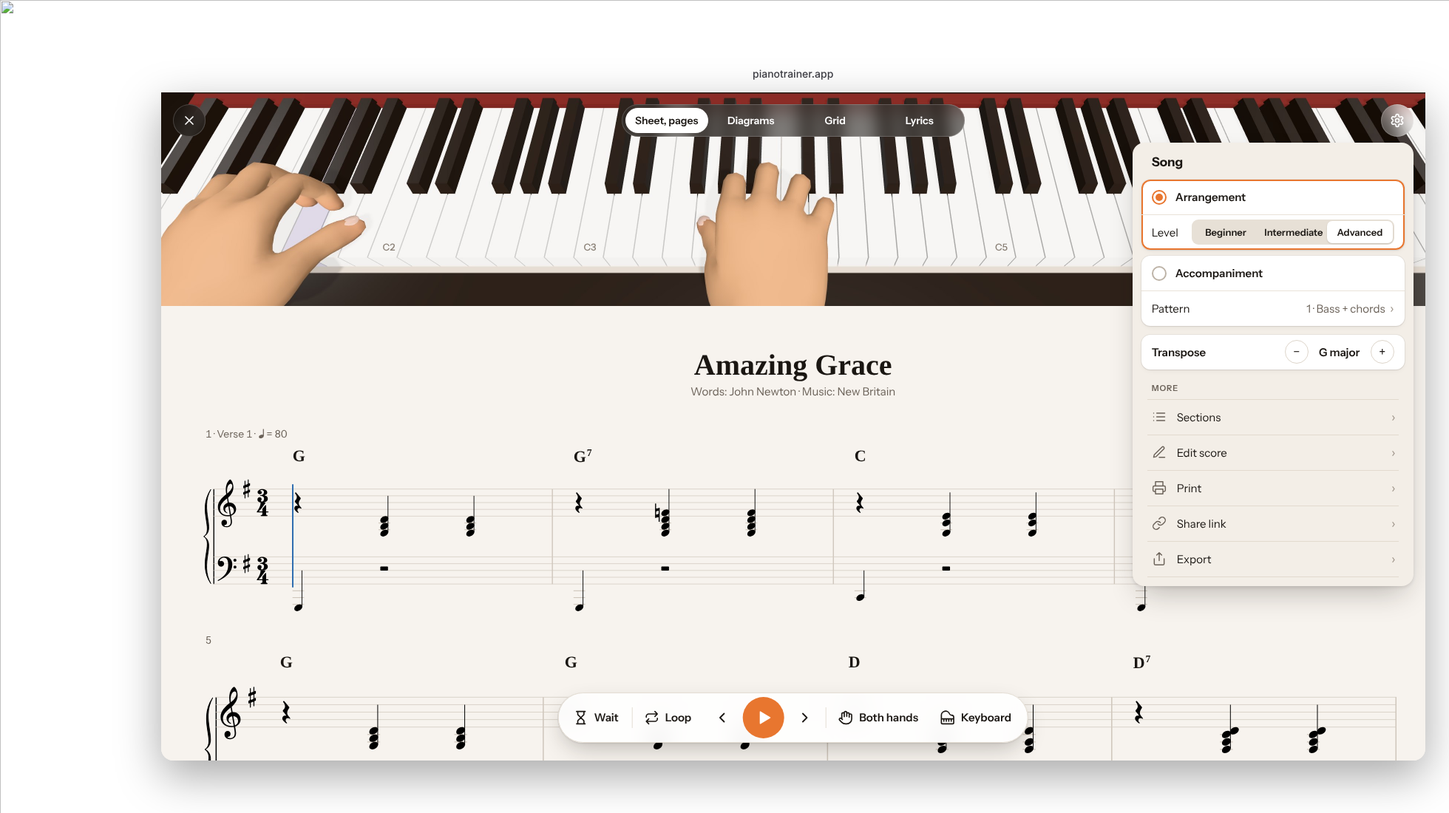
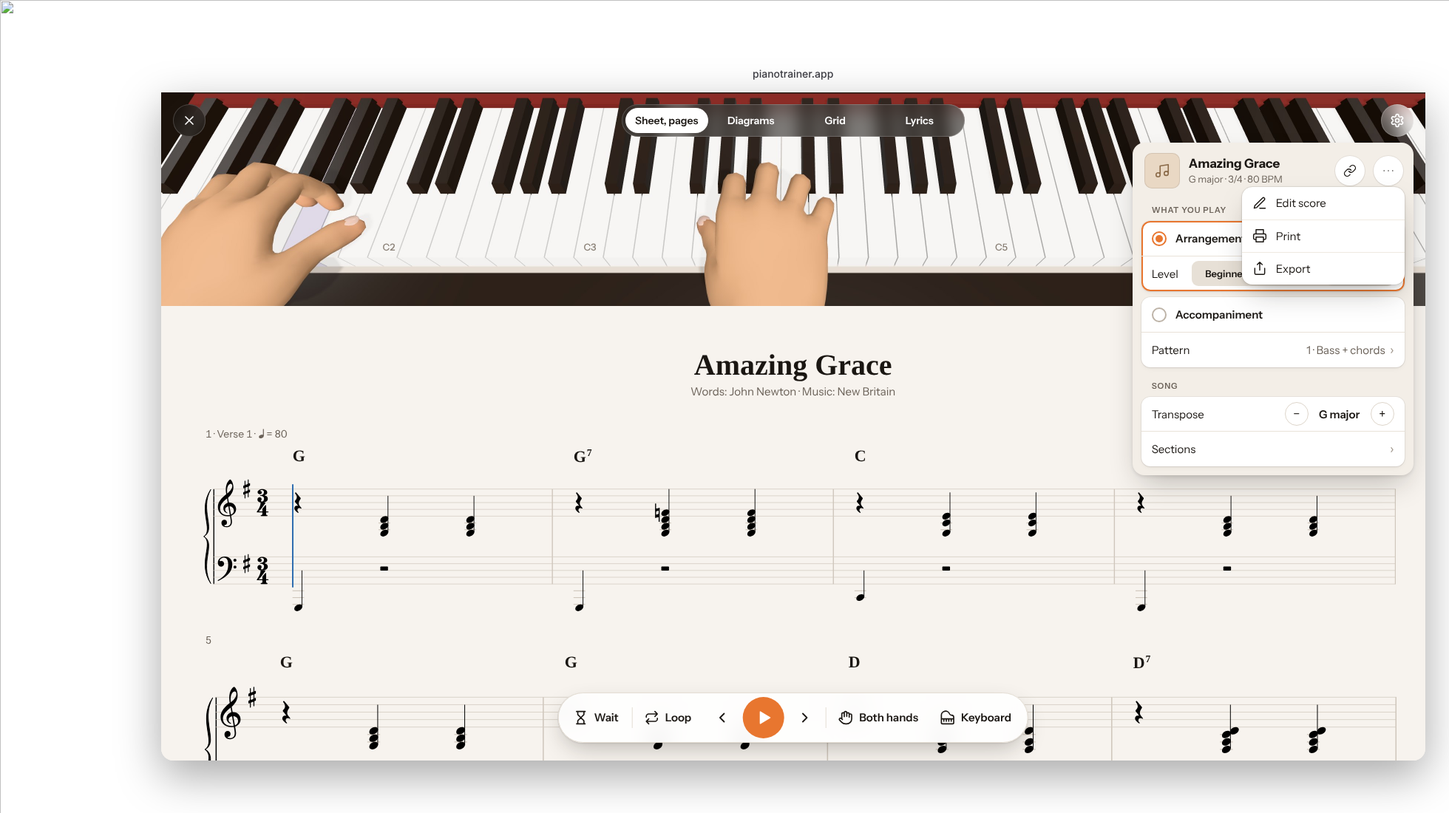
R37 canvas: the song's drawer, the song at its head with Share link and More, settings only below
Claude-Session: https://claude.ai/code/session_01BrtnH1Yf7S8aVU4w6rFSCU

diff --git a/.scratch/r37/canvas/panels.py b/.scratch/r37/canvas/panels.py
@@ -115,6 +115,22 @@ ACT_ROW = 'min-height: 48px; box-sizing: border-box; padding: 6px 4px 6px 6px; d
 ACTS = (caption('More') + '\n' + '<div role="group" aria-label="Song actions" style="flex: none; display: flex; flex-direction: column; margin: 0 8px; border-bottom: 1px solid #E2DACE">'
     + ''.join('<button type="button" style="%s"><svg width="20" height="20" viewBox="0 0 24 24" fill="none" stroke="#6B6259" stroke-width="1.75" stroke-linecap="round" stroke-linejoin="round" aria-hidden="true" style="flex: none"><path d="%s"></path></svg><span style="flex: 1">%s</span><span aria-hidden="true" style="color: #A39A90; font-size: 18px">›</span></button>' % (ACT_ROW, d, n) for n, d in ACT_ICONS)
     + '</div>')
+ICON = lambda d, s=20: '<svg width="%d" height="%d" viewBox="0 0 24 24" fill="none" stroke="currentColor" stroke-width="1.75" stroke-linecap="round" stroke-linejoin="round" aria-hidden="true" style="flex: none"><path d="%s"></path></svg>' % (s, s, d)
+ICBTN = 'flex: none; width: 40px; height: 40px; border: 0; border-radius: 9999px; background: #FFFFFF; color: #1A1612; display: flex; align-items: center; justify-content: center; box-shadow: 0 0 0 1px rgba(26,22,18,0.06), 0 1px 2px rgba(26,22,18,0.08)'
+MENU_ROW = 'min-height: 44px; box-sizing: border-box; padding: 0 14px; display: flex; align-items: center; gap: 12px; width: 100%; border: 0; border-top: 1px solid #EFE9E1; background: transparent; color: #1A1612; font-size: 15px; text-align: left'
+# the drawer's head is the song, as Chordify's and Apple Music's sheets are: its name and facts, and its two acts at the
+# right (Share link, and ··· for Edit score · Print · Export, a menu as Chordify's ⋮); settings only below, in groups
+SONGHEAD = ('<div style="flex: none; position: relative; display: flex; align-items: center; gap: 12px; padding: 2px 2px 4px 4px">'
+    '<span aria-hidden="true" style="flex: none; width: 48px; height: 48px; border-radius: 10px; background: #E9D8C4; box-shadow: inset 0 0 0 1px rgba(26,22,18,0.10); display: flex; align-items: center; justify-content: center; color: #8A6A48">' + ICON('M9 18V5l12-2v13M9 18a3 3 0 1 1-6 0 3 3 0 0 1 6 0ZM21 16a3 3 0 1 1-6 0 3 3 0 0 1 6 0Z', 22) + '</span>'
+    '<span style="flex: 1; min-width: 0; display: flex; flex-direction: column; gap: 2px"><span style="font-size: 17px; font-weight: 700; line-height: 1.2; white-space: nowrap; overflow: hidden; text-overflow: ellipsis">Amazing Grace</span><span style="font-size: 13px; color: #6B6259; white-space: nowrap; overflow: hidden; text-overflow: ellipsis">{{keyName}} · 3/4 · 80 BPM</span></span>'
+    '<button type="button" aria-label="Share link" style="' + ICBTN + '">' + ICON('M10 13a5 5 0 0 0 7.54.54l3-3a5 5 0 0 0-7.07-7.07l-1.72 1.71M14 11a5 5 0 0 0-7.54-.54l-3 3a5 5 0 0 0 7.07 7.07l1.71-1.71', 18) + '</button>'
+    '<button type="button" aria-label="More" aria-expanded="{{songActsOn}}" onClick="{{toggleSongActs}}" style="' + ICBTN + '">' + ICON('M5 12h.01M12 12h.01M19 12h.01', 20) + '</button>'
+    '<sc-if value="{{songActsShow}}" hint-placeholder-val="{{false}}"><div role="menu" style="position: absolute; z-index: 5; right: 0; top: 48px; width: 220px; border-radius: 14px; background: #FFFFFF; overflow: hidden; box-shadow: 0 0 0 1px rgba(26,22,18,0.08), 0 2px 4px rgba(26,22,18,0.10), 0 18px 40px -12px rgba(26,22,18,0.35)">'
+    + ''.join('<button type="button" role="menuitem" onClick="{{toggleSongActs}}" style="%s%s">%s<span>%s</span></button>' % (MENU_ROW, '; border-top: 0' if i == 0 else '', ICON(d), n) for i, (n, d) in enumerate([
+        ('Edit score', 'M12 20h9M16.5 3.5a2.1 2.1 0 0 1 3 3L7 19l-4 1 1-4Z'),
+        ('Print', 'M6 9V2h12v7M6 18H4a2 2 0 0 1-2-2v-5a2 2 0 0 1 2-2h16a2 2 0 0 1 2 2v5a2 2 0 0 1-2 2h-2M6 14h12v8H6z'),
+        ('Export', 'M4 12v8a2 2 0 0 0 2 2h12a2 2 0 0 0 2-2v-8M16 6l-4-4-4 4M12 2v13')]))
+    + '</div></sc-if></div>')
 def bodies(segw):
     # the view's own settings: its panel, and the head of the keys' one while the keys show
     VIEWSEC = (sif('isSheet', group(row('Layout', seg('layoutOpts', 2, segw['layout'])), CHIPS), 'true') + '\n'
@@ -148,10 +164,10 @@ def bodies(segw):
     'isView': ('{{viewName}} settings', title('{{viewName}}') + '\n' + VIEWSEC),
     # Settings: the song first (what you change for a piece), then the keyboard and only what its kind uses,
     # the actions last; no volume of its own (the device's, and each hand's in Hands)
-    'isMore': ('Settings', title('Song') + '\n'
+    'isMore': ('Settings', SONGHEAD + '\n' + caption('What you play') + '\n'
         + '<div role="radiogroup" aria-label="Score" style="display: flex; flex-direction: column; gap: 8px">' + CARD('arr', 'Arrangement', row('Level', seg('levelOpts', 3, 270))) + CARD('acc', 'Accompaniment', valrow('Pattern', '{{patternName}}', 'openPattern')) + '</div>\n'
-        + group(row('<span style="font-weight: 600">Transpose</span>', STEP)) + '\n'
-        + ACTS),
+        + caption('Song') + '\n'
+        + group(row('Transpose', STEP), link('Sections'))),
     # the keyboard: its own button at the transport's right end, Keys first, then only what that kind uses
     # the keyboard: which one, as pictures (Chordify's "Pick your view"), then only what changes that one
     'isKeys': ('Keyboard', title('Keyboard') + '\n' + TILES + '\n'
@@ -172,6 +188,7 @@ const PATTERN_ROLLS = [['Bass and chords', 'M2 6h11v3h-11zM2 11h11v3h-11zM2 16h1
 const PAT_SHELVES = [{"id": "five-ways", "title": "Called to Play · The five ways (lesson 3)"}, {"id": "techniques", "title": "Called to Play · Right-hand techniques"}, {"id": "octaves", "title": "Called to Play 2 · Octaves and chords (level 2)"}, {"id": "seven-types", "title": "Bobrova · The seven types of accompaniment"}, {"id": "gorshkov", "title": "Gorshkov · Arranging the accompaniment"}, {"id": "genres", "title": "Rhythm styles"}, {"id": "own", "title": "Mine"}];
 const PAT_LIB = [{"id": "M1", "shelf": "five-ways", "name": "1 · Bass + chords", "hands": "LH: Octave, whole note · RH: Chord on every beat", "level": 1, "rh": "M2 6h19.6v3h-19.6zM2 11h19.6v3h-19.6zM2 16h19.6v3h-19.6zM26 6h19.6v3h-19.6zM26 11h19.6v3h-19.6zM26 16h19.6v3h-19.6zM50 6h19.6v3h-19.6zM50 11h19.6v3h-19.6zM50 16h19.6v3h-19.6zM74 6h19.6v3h-19.6zM74 11h19.6v3h-19.6zM74 16h19.6v3h-19.6z", "lh": "M2 29h94v3h-94z", "notes": [[0, 0.9, 0, "r"], [0, 0.9, 1, "r"], [0, 0.9, 2, "r"], [1, 0.9, 0, "r"], [1, 0.9, 1, "r"], [1, 0.9, 2, "r"], [2, 0.9, 0, "r"], [2, 0.9, 1, "r"], [2, 0.9, 2, "r"], [3, 0.9, 0, "r"], [3, 0.9, 1, "r"], [3, 0.9, 2, "r"], [0, 4, 0, "l"]], "book": "ctp", "tex": "block", "feel": "straight"}, {"id": "M2", "shelf": "five-ways", "name": "2 · Broken chords", "hands": "LH: Octave, whole note · RH: Broken chord: upper notes, lowest", "level": 1, "rh": "M2 6h8.8v3h-8.8zM2 11h8.8v3h-8.8zM14 16h8.8v3h-8.8zM26 6h8.8v3h-8.8zM26 11h8.8v3h-8.8zM38 16h8.8v3h-8.8zM50 6h8.8v3h-8.8zM50 11h8.8v3h-8.8zM62 16h8.8v3h-8.8zM74 6h8.8v3h-8.8zM74 11h8.8v3h-8.8zM86 16h8.8v3h-8.8z", "lh": "M2 29h94v3h-94z", "notes": [[0.0, 0.45, 0, "r"], [0.0, 0.45, 1, "r"], [0.5, 0.45, 2, "r"], [1.0, 0.45, 0, "r"], [1.0, 0.45, 1, "r"], [1.5, 0.45, 2, "r"], [2.0, 0.45, 0, "r"], [2.0, 0.45, 1, "r"], [2.5, 0.45, 2, "r"], [3.0, 0.45, 0, "r"], [3.0, 0.45, 1, "r"], [3.5, 0.45, 2, "r"], [0, 4, 0, "l"]], "book": "ctp", "tex": "broken", "feel": "straight"}, {"id": "M4", "shelf": "five-ways", "name": "4 · Arpeggio 1–5–8 · 3–5–8–5–3", "hands": "LH: Arpeggio 1–5–8 (no 3rd) · RH: Arpeggio 3–5–8–5–3", "level": 1, "rh": "M2 16h19.6v3h-19.6zM26 11h19.6v3h-19.6zM50 6h19.6v3h-19.6zM74 11h19.6v3h-19.6z", "lh": "M2 39h8.8v3h-8.8zM14 34h8.8v3h-8.8zM26 29h8.8v3h-8.8zM38 34h8.8v3h-8.8zM50 39h8.8v3h-8.8zM62 34h8.8v3h-8.8zM74 29h8.8v3h-8.8zM86 34h8.8v3h-8.8z", "notes": [[0, 0.9, 2, "r"], [1, 0.9, 1, "r"], [2, 0.9, 0, "r"], [3, 0.9, 1, "r"], [0.0, 0.45, 2, "l"], [0.5, 0.45, 1, "l"], [1.0, 0.45, 0, "l"], [1.5, 0.45, 1, "l"], [2.0, 0.45, 2, "l"], [2.5, 0.45, 1, "l"], [3.0, 0.45, 0, "l"], [3.5, 0.45, 1, "l"]], "book": "ctp", "tex": "arp", "feel": "straight"}, {"id": "M5", "shelf": "five-ways", "name": "5 · Bass + chords (dotted bass)", "hands": "LH: Dotted octaves ♩. ♪ · RH: Chord on every beat", "level": 1, "rh": "M2 6h19.6v3h-19.6zM2 11h19.6v3h-19.6zM2 16h19.6v3h-19.6zM26 6h19.6v3h-19.6zM26 11h19.6v3h-19.6zM26 16h19.6v3h-19.6zM50 6h19.6v3h-19.6zM50 11h19.6v3h-19.6zM50 16h19.6v3h-19.6zM74 6h19.6v3h-19.6zM74 11h19.6v3h-19.6zM74 16h19.6v3h-19.6z", "lh": "M2 29h31.6v3h-31.6zM38 39h8.8v3h-8.8zM50 29h31.6v3h-31.6zM86 39h8.8v3h-8.8z", "notes": [[0, 0.9, 0, "r"], [0, 0.9, 1, "r"], [0, 0.9, 2, "r"], [1, 0.9, 0, "r"], [1, 0.9, 1, "r"], [1, 0.9, 2, "r"], [2, 0.9, 0, "r"], [2, 0.9, 1, "r"], [2, 0.9, 2, "r"], [3, 0.9, 0, "r"], [3, 0.9, 1, "r"], [3, 0.9, 2, "r"], [0, 1.4, 0, "l"], [1.5, 0.45, 2, "l"], [2, 1.4, 0, "l"], [3.5, 0.45, 2, "l"]], "book": "ctp", "tex": "block", "feel": "straight"}, {"id": "t1", "shelf": "techniques", "name": "♪♩ Chord, then octave jumps", "hands": "LH: Octave, whole note · RH: ♪♩ Chord, then octave jumps", "level": 1, "rh": "M2 6h8.8v3h-8.8zM2 11h8.8v3h-8.8zM14 16h8.8v3h-8.8zM26 6h8.8v3h-8.8zM26 11h8.8v3h-8.8zM38 16h8.8v3h-8.8zM50 6h8.8v3h-8.8zM50 11h8.8v3h-8.8zM62 16h8.8v3h-8.8zM74 6h8.8v3h-8.8zM74 11h8.8v3h-8.8zM86 16h8.8v3h-8.8z", "lh": "M2 29h94v3h-94z", "notes": [[0.0, 0.45, 0, "r"], [0.0, 0.45, 1, "r"], [0.5, 0.45, 2, "r"], [1.0, 0.45, 0, "r"], [1.0, 0.45, 1, "r"], [1.5, 0.45, 2, "r"], [2.0, 0.45, 0, "r"], [2.0, 0.45, 1, "r"], [2.5, 0.45, 2, "r"], [3.0, 0.45, 0, "r"], [3.0, 0.45, 1, "r"], [3.5, 0.45, 2, "r"], [0, 4, 0, "l"]], "book": "ctp", "tex": "line", "feel": "straight"}, {"id": "t2", "shelf": "techniques", "name": "♪♪♪♪ Arpeggio up two octaves", "hands": "LH: Octave, whole note · RH: ♪♪♪♪ Arpeggio up two octaves", "level": 1, "rh": "M2 16h8.8v3h-8.8zM14 6h8.8v3h-8.8zM26 11h8.8v3h-8.8zM38 6h8.8v3h-8.8zM50 16h8.8v3h-8.8zM62 6h8.8v3h-8.8zM74 11h8.8v3h-8.8zM86 6h8.8v3h-8.8z", "lh": "M2 29h94v3h-94z", "notes": [[0.0, 0.45, 2, "r"], [0.5, 0.45, 0, "r"], [1.0, 0.45, 1, "r"], [1.5, 0.45, 0, "r"], [2.0, 0.45, 2, "r"], [2.5, 0.45, 0, "r"], [3.0, 0.45, 1, "r"], [3.5, 0.45, 0, "r"], [0, 4, 0, "l"]], "book": "ctp", "tex": "arp", "feel": "straight"}, {"id": "t3", "shelf": "techniques", "name": "♬ Runs down to the root", "hands": "LH: Octave, whole note · RH: ♬ 2nd and 5th, then down 3–2–1", "level": 1, "rh": "M2 16h8.8v3h-8.8zM14 6h8.8v3h-8.8zM26 11h8.8v3h-8.8zM38 6h8.8v3h-8.8zM50 16h8.8v3h-8.8zM62 6h8.8v3h-8.8zM74 11h8.8v3h-8.8zM86 6h8.8v3h-8.8z", "lh": "M2 29h94v3h-94z", "notes": [[0.0, 0.45, 2, "r"], [0.5, 0.45, 0, "r"], [1.0, 0.45, 1, "r"], [1.5, 0.45, 0, "r"], [2.0, 0.45, 2, "r"], [2.5, 0.45, 0, "r"], [3.0, 0.45, 1, "r"], [3.5, 0.45, 0, "r"], [0, 4, 0, "l"]], "book": "ctp", "tex": "line", "feel": "straight"}, {"id": "t4", "shelf": "techniques", "name": "♫ Run up 1–2–3–5", "hands": "LH: Octave, whole note · RH: ♫ Up 1–2–3–5 over two octaves", "level": 1, "rh": "M2 16h8.8v3h-8.8zM14 6h8.8v3h-8.8zM26 11h8.8v3h-8.8zM38 6h8.8v3h-8.8zM50 16h8.8v3h-8.8zM62 6h8.8v3h-8.8zM74 11h8.8v3h-8.8zM86 6h8.8v3h-8.8z", "lh": "M2 29h94v3h-94z", "notes": [[0.0, 0.45, 2, "r"], [0.5, 0.45, 0, "r"], [1.0, 0.45, 1, "r"], [1.5, 0.45, 0, "r"], [2.0, 0.45, 2, "r"], [2.5, 0.45, 0, "r"], [3.0, 0.45, 1, "r"], [3.5, 0.45, 0, "r"], [0, 4, 0, "l"]], "book": "ctp", "tex": "line", "feel": "straight"}, {"id": "t5", "shelf": "techniques", "name": "♩.♪♩ Dotted chords", "hands": "LH: Wide arpeggio 1–5–8–10–12–10", "level": 1, "rh": "M2 6h19.6v3h-19.6zM2 11h19.6v3h-19.6zM2 16h19.6v3h-19.6zM26 6h19.6v3h-19.6zM26 11h19.6v3h-19.6zM26 16h19.6v3h-19.6zM50 6h19.6v3h-19.6zM50 11h19.6v3h-19.6zM50 16h19.6v3h-19.6zM74 6h19.6v3h-19.6zM74 11h19.6v3h-19.6zM74 16h19.6v3h-19.6z", "lh": "M2 29h31.6v3h-31.6zM38 39h8.8v3h-8.8zM50 29h31.6v3h-31.6zM86 39h8.8v3h-8.8z", "notes": [[0, 0.9, 0, "r"], [0, 0.9, 1, "r"], [0, 0.9, 2, "r"], [1, 0.9, 0, "r"], [1, 0.9, 1, "r"], [1, 0.9, 2, "r"], [2, 0.9, 0, "r"], [2, 0.9, 1, "r"], [2, 0.9, 2, "r"], [3, 0.9, 0, "r"], [3, 0.9, 1, "r"], [3, 0.9, 2, "r"], [0, 1.4, 0, "l"], [1.5, 0.45, 2, "l"], [2, 1.4, 0, "l"], [3.5, 0.45, 2, "l"]], "book": "ctp", "tex": "block", "feel": "straight"}, {"id": "c3", "shelf": "techniques", "name": "3 chords", "hands": "LH: Wide arpeggio 1–5–8–10–12–10 · RH: 3 chords an octave apart", "level": 1, "rh": "M2 6h19.6v3h-19.6zM2 11h19.6v3h-19.6zM2 16h19.6v3h-19.6zM26 6h19.6v3h-19.6zM26 11h19.6v3h-19.6zM26 16h19.6v3h-19.6zM50 6h19.6v3h-19.6zM50 11h19.6v3h-19.6zM50 16h19.6v3h-19.6zM74 6h19.6v3h-19.6zM74 11h19.6v3h-19.6zM74 16h19.6v3h-19.6z", "lh": "M2 29h94v3h-94z", "notes": [[0, 0.9, 0, "r"], [0, 0.9, 1, "r"], [0, 0.9, 2, "r"], [1, 0.9, 0, "r"], [1, 0.9, 1, "r"], [1, 0.9, 2, "r"], [2, 0.9, 0, "r"], [2, 0.9, 1, "r"], [2, 0.9, 2, "r"], [3, 0.9, 0, "r"], [3, 0.9, 1, "r"], [3, 0.9, 2, "r"], [0, 4, 0, "l"]], "book": "ctp", "tex": "block", "feel": "straight"}, {"id": "inv", "shelf": "techniques", "name": "Inversions: root, 1st, 2nd", "hands": "LH: Arpeggio 1–5–8–10, the 12th held · RH: Inversions: root, 1st, 2nd", "level": 1, "rh": "M2 6h19.6v3h-19.6zM2 11h19.6v3h-19.6zM2 16h19.6v3h-19.6zM26 6h19.6v3h-19.6zM26 11h19.6v3h-19.6zM26 16h19.6v3h-19.6zM50 6h19.6v3h-19.6zM50 11h19.6v3h-19.6zM50 16h19.6v3h-19.6zM74 6h19.6v3h-19.6zM74 11h19.6v3h-19.6zM74 16h19.6v3h-19.6z", "lh": "M2 29h94v3h-94z", "notes": [[0, 0.9, 0, "r"], [0, 0.9, 1, "r"], [0, 0.9, 2, "r"], [1, 0.9, 0, "r"], [1, 0.9, 1, "r"], [1, 0.9, 2, "r"], [2, 0.9, 0, "r"], [2, 0.9, 1, "r"], [2, 0.9, 2, "r"], [3, 0.9, 0, "r"], [3, 0.9, 1, "r"], [3, 0.9, 2, "r"], [0, 4, 0, "l"]], "book": "ctp", "tex": "block", "feel": "straight"}, {"id": "p51", "shelf": "techniques", "name": "5.1 · The ♭7 under the root", "hands": "LH: Dotted octaves ♩. ♪ · RH: 5.1 The ♭7 under the root", "level": 1, "rh": "M2 6h19.6v3h-19.6zM2 11h19.6v3h-19.6zM2 16h19.6v3h-19.6zM26 6h19.6v3h-19.6zM26 11h19.6v3h-19.6zM26 16h19.6v3h-19.6zM50 6h19.6v3h-19.6zM50 11h19.6v3h-19.6zM50 16h19.6v3h-19.6zM74 6h19.6v3h-19.6zM74 11h19.6v3h-19.6zM74 16h19.6v3h-19.6z", "lh": "M2 29h31.6v3h-31.6zM38 39h8.8v3h-8.8zM50 29h31.6v3h-31.6zM86 39h8.8v3h-8.8z", "notes": [[0, 0.9, 0, "r"], [0, 0.9, 1, "r"], [0, 0.9, 2, "r"], [1, 0.9, 0, "r"], [1, 0.9, 1, "r"], [1, 0.9, 2, "r"], [2, 0.9, 0, "r"], [2, 0.9, 1, "r"], [2, 0.9, 2, "r"], [3, 0.9, 0, "r"], [3, 0.9, 1, "r"], [3, 0.9, 2, "r"], [0, 1.4, 0, "l"], [1.5, 0.45, 2, "l"], [2, 1.4, 0, "l"], [3.5, 0.45, 2, "l"]], "book": "ctp", "tex": "block", "feel": "straight"}, {"id": "p52", "shelf": "techniques", "name": "5.2 · Falling line 1–7–♭7–6", "hands": "LH: Dotted octaves ♩. ♪ · RH: 5.2 Falling line 1–7–♭7–6", "level": 1, "rh": "M2 6h19.6v3h-19.6zM2 11h19.6v3h-19.6zM2 16h19.6v3h-19.6zM26 6h19.6v3h-19.6zM26 11h19.6v3h-19.6zM26 16h19.6v3h-19.6zM50 6h19.6v3h-19.6zM50 11h19.6v3h-19.6zM50 16h19.6v3h-19.6zM74 6h19.6v3h-19.6zM74 11h19.6v3h-19.6zM74 16h19.6v3h-19.6z", "lh": "M2 29h31.6v3h-31.6zM38 39h8.8v3h-8.8zM50 29h31.6v3h-31.6zM86 39h8.8v3h-8.8z", "notes": [[0, 0.9, 0, "r"], [0, 0.9, 1, "r"], [0, 0.9, 2, "r"], [1, 0.9, 0, "r"], [1, 0.9, 1, "r"], [1, 0.9, 2, "r"], [2, 0.9, 0, "r"], [2, 0.9, 1, "r"], [2, 0.9, 2, "r"], [3, 0.9, 0, "r"], [3, 0.9, 1, "r"], [3, 0.9, 2, "r"], [0, 1.4, 0, "l"], [1.5, 0.45, 2, "l"], [2, 1.4, 0, "l"], [3.5, 0.45, 2, "l"]], "book": "ctp", "tex": "line", "feel": "straight"}, {"id": "p53", "shelf": "techniques", "name": "5.3 · The 3rd moves 3–2–4–3", "hands": "LH: Dotted octaves ♩. ♪ · RH: 5.3 The 3rd moves 3–2–4–3", "level": 1, "rh": "M2 6h19.6v3h-19.6zM2 11h19.6v3h-19.6zM2 16h19.6v3h-19.6zM26 6h19.6v3h-19.6zM26 11h19.6v3h-19.6zM26 16h19.6v3h-19.6zM50 6h19.6v3h-19.6zM50 11h19.6v3h-19.6zM50 16h19.6v3h-19.6zM74 6h19.6v3h-19.6zM74 11h19.6v3h-19.6zM74 16h19.6v3h-19.6z", "lh": "M2 29h31.6v3h-31.6zM38 39h8.8v3h-8.8zM50 29h31.6v3h-31.6zM86 39h8.8v3h-8.8z", "notes": [[0, 0.9, 0, "r"], [0, 0.9, 1, "r"], [0, 0.9, 2, "r"], [1, 0.9, 0, "r"], [1, 0.9, 1, "r"], [1, 0.9, 2, "r"], [2, 0.9, 0, "r"], [2, 0.9, 1, "r"], [2, 0.9, 2, "r"], [3, 0.9, 0, "r"], [3, 0.9, 1, "r"], [3, 0.9, 2, "r"], [0, 1.4, 0, "l"], [1.5, 0.45, 2, "l"], [2, 1.4, 0, "l"], [3.5, 0.45, 2, "l"]], "book": "ctp", "tex": "line", "feel": "straight"}, {"id": "s6u", "shelf": "techniques", "name": "Rising sixths", "hands": "LH: 1–5–8–5 in quarters · RH: 6th↑ Rising sixths", "level": 1, "rh": "M2 16h19.6v3h-19.6zM26 11h19.6v3h-19.6zM50 6h19.6v3h-19.6zM74 11h19.6v3h-19.6z", "lh": "M2 39h8.8v3h-8.8zM14 34h8.8v3h-8.8zM26 29h8.8v3h-8.8zM38 34h8.8v3h-8.8zM50 39h8.8v3h-8.8zM62 34h8.8v3h-8.8zM74 29h8.8v3h-8.8zM86 34h8.8v3h-8.8z", "notes": [[0, 0.9, 2, "r"], [1, 0.9, 1, "r"], [2, 0.9, 0, "r"], [3, 0.9, 1, "r"], [0.0, 0.45, 2, "l"], [0.5, 0.45, 1, "l"], [1.0, 0.45, 0, "l"], [1.5, 0.45, 1, "l"], [2.0, 0.45, 2, "l"], [2.5, 0.45, 1, "l"], [3.0, 0.45, 0, "l"], [3.5, 0.45, 1, "l"]], "book": "ctp", "tex": "line", "feel": "straight"}, {"id": "s6d", "shelf": "techniques", "name": "Falling sixths", "hands": "LH: 1–5–8–5 in quarters · RH: 6th↓ Falling sixths", "level": 1, "rh": "M2 16h19.6v3h-19.6zM26 11h19.6v3h-19.6zM50 6h19.6v3h-19.6zM74 11h19.6v3h-19.6z", "lh": "M2 39h8.8v3h-8.8zM14 34h8.8v3h-8.8zM26 29h8.8v3h-8.8zM38 34h8.8v3h-8.8zM50 39h8.8v3h-8.8zM62 34h8.8v3h-8.8zM74 29h8.8v3h-8.8zM86 34h8.8v3h-8.8z", "notes": [[0, 0.9, 2, "r"], [1, 0.9, 1, "r"], [2, 0.9, 0, "r"], [3, 0.9, 1, "r"], [0.0, 0.45, 2, "l"], [0.5, 0.45, 1, "l"], [1.0, 0.45, 0, "l"], [1.5, 0.45, 1, "l"], [2.0, 0.45, 2, "l"], [2.5, 0.45, 1, "l"], [3.0, 0.45, 0, "l"], [3.5, 0.45, 1, "l"]], "book": "ctp", "tex": "line", "feel": "straight"}, {"id": "oct", "shelf": "octaves", "name": "Octaves", "hands": "LH: Octave, whole note · RH: Octaves 1–2–3–5, two octaves up", "level": 2, "rh": "M2 16h8.8v3h-8.8zM14 6h8.8v3h-8.8zM26 11h8.8v3h-8.8zM38 6h8.8v3h-8.8zM50 16h8.8v3h-8.8zM62 6h8.8v3h-8.8zM74 11h8.8v3h-8.8zM86 6h8.8v3h-8.8z", "lh": "M2 29h94v3h-94z", "notes": [[0.0, 0.45, 2, "r"], [0.5, 0.45, 0, "r"], [1.0, 0.45, 1, "r"], [1.5, 0.45, 0, "r"], [2.0, 0.45, 2, "r"], [2.5, 0.45, 0, "r"], [3.0, 0.45, 1, "r"], [3.5, 0.45, 0, "r"], [0, 4, 0, "l"]], "book": "ctp2", "tex": "line", "feel": "straight"}, {"id": "octs", "shelf": "octaves", "name": "Octaves (scale)", "hands": "LH: Octave, whole note · RH: Octaves up the scale", "level": 2, "rh": "M2 16h8.8v3h-8.8zM14 6h8.8v3h-8.8zM26 11h8.8v3h-8.8zM38 6h8.8v3h-8.8zM50 16h8.8v3h-8.8zM62 6h8.8v3h-8.8zM74 11h8.8v3h-8.8zM86 6h8.8v3h-8.8z", "lh": "M2 29h94v3h-94z", "notes": [[0.0, 0.45, 2, "r"], [0.5, 0.45, 0, "r"], [1.0, 0.45, 1, "r"], [1.5, 0.45, 0, "r"], [2.0, 0.45, 2, "r"], [2.5, 0.45, 0, "r"], [3.0, 0.45, 1, "r"], [3.5, 0.45, 0, "r"], [0, 4, 0, "l"]], "book": "ctp2", "tex": "line", "feel": "straight"}, {"id": "chd", "shelf": "octaves", "name": "Chords", "hands": "LH: Arpeggio 1–5–8–10, the 12th held", "level": 2, "rh": "M2 6h19.6v3h-19.6zM2 11h19.6v3h-19.6zM2 16h19.6v3h-19.6zM26 6h19.6v3h-19.6zM26 11h19.6v3h-19.6zM26 16h19.6v3h-19.6zM50 6h19.6v3h-19.6zM50 11h19.6v3h-19.6zM50 16h19.6v3h-19.6zM74 6h19.6v3h-19.6zM74 11h19.6v3h-19.6zM74 16h19.6v3h-19.6z", "lh": "M2 29h94v3h-94z", "notes": [[0, 0.9, 0, "r"], [0, 0.9, 1, "r"], [0, 0.9, 2, "r"], [1, 0.9, 0, "r"], [1, 0.9, 1, "r"], [1, 0.9, 2, "r"], [2, 0.9, 0, "r"], [2, 0.9, 1, "r"], [2, 0.9, 2, "r"], [3, 0.9, 0, "r"], [3, 0.9, 1, "r"], [3, 0.9, 2, "r"], [0, 4, 0, "l"]], "book": "ctp2", "tex": "block", "feel": "straight"}, {"id": "r1", "shelf": "seven-types", "name": "1 · Harmonic basis", "hands": "LH: Octave on beats 1 and 3 · RH: Held chords (half notes)", "level": 2, "rh": "M2 6h19.6v3h-19.6zM2 11h19.6v3h-19.6zM2 16h19.6v3h-19.6zM26 6h19.6v3h-19.6zM26 11h19.6v3h-19.6zM26 16h19.6v3h-19.6zM50 6h19.6v3h-19.6zM50 11h19.6v3h-19.6zM50 16h19.6v3h-19.6zM74 6h19.6v3h-19.6zM74 11h19.6v3h-19.6zM74 16h19.6v3h-19.6z", "lh": "M2 29h94v3h-94z", "notes": [[0, 0.9, 0, "r"], [0, 0.9, 1, "r"], [0, 0.9, 2, "r"], [1, 0.9, 0, "r"], [1, 0.9, 1, "r"], [1, 0.9, 2, "r"], [2, 0.9, 0, "r"], [2, 0.9, 1, "r"], [2, 0.9, 2, "r"], [3, 0.9, 0, "r"], [3, 0.9, 1, "r"], [3, 0.9, 2, "r"], [0, 4, 0, "l"]], "book": "bob", "tex": "block", "feel": "straight"}, {"id": "r2", "shelf": "seven-types", "name": "2 · Bass–chord alternation", "hands": "RH: Chord on the off-beats", "level": 2, "rh": "M26 6h19.6v3h-19.6zM26 11h19.6v3h-19.6zM26 16h19.6v3h-19.6zM74 6h19.6v3h-19.6zM74 11h19.6v3h-19.6zM74 16h19.6v3h-19.6z", "lh": "M2 39h19.6v3h-19.6zM50 29h19.6v3h-19.6z", "notes": [[1, 0.9, 0, "r"], [1, 0.9, 1, "r"], [1, 0.9, 2, "r"], [3, 0.9, 0, "r"], [3, 0.9, 1, "r"], [3, 0.9, 2, "r"], [0, 0.9, 2, "l"], [2, 0.9, 0, "l"]], "book": "bob", "tex": "block", "feel": "straight"}, {"id": "r3", "shelf": "seven-types", "name": "3 · Chord pulse", "hands": "RH: Pulsing chords (8ths)", "level": 2, "rh": "M14 6h7.6v3h-7.6zM14 11h7.6v3h-7.6zM14 16h7.6v3h-7.6zM38 6h7.6v3h-7.6zM38 11h7.6v3h-7.6zM38 16h7.6v3h-7.6zM62 6h7.6v3h-7.6zM62 11h7.6v3h-7.6zM62 16h7.6v3h-7.6zM86 6h7.6v3h-7.6zM86 11h7.6v3h-7.6zM86 16h7.6v3h-7.6z", "lh": "M2 29h19.6v3h-19.6zM26 29h19.6v3h-19.6zM50 29h19.6v3h-19.6zM74 29h19.6v3h-19.6z", "notes": [[0.5, 0.4, 0, "r"], [0.5, 0.4, 1, "r"], [0.5, 0.4, 2, "r"], [1.5, 0.4, 0, "r"], [1.5, 0.4, 1, "r"], [1.5, 0.4, 2, "r"], [2.5, 0.4, 0, "r"], [2.5, 0.4, 1, "r"], [2.5, 0.4, 2, "r"], [3.5, 0.4, 0, "r"], [3.5, 0.4, 1, "r"], [3.5, 0.4, 2, "r"], [0, 0.9, 0, "l"], [1, 0.9, 0, "l"], [2, 0.9, 0, "l"], [3, 0.9, 0, "l"]], "book": "bob", "tex": "block", "feel": "straight"}, {"id": "r4", "shelf": "seven-types", "name": "4 · Harmonic figuration", "hands": "LH: Arpeggio 1–5–8 (no 3rd) · RH: Figuration 1–3–2–4–3", "level": 2, "rh": "M2 16h8.8v3h-8.8zM14 6h8.8v3h-8.8zM26 11h8.8v3h-8.8zM38 6h8.8v3h-8.8zM50 16h8.8v3h-8.8zM62 6h8.8v3h-8.8zM74 11h8.8v3h-8.8zM86 6h8.8v3h-8.8z", "lh": "M2 29h94v3h-94z", "notes": [[0.0, 0.45, 2, "r"], [0.5, 0.45, 0, "r"], [1.0, 0.45, 1, "r"], [1.5, 0.45, 0, "r"], [2.0, 0.45, 2, "r"], [2.5, 0.45, 0, "r"], [3.0, 0.45, 1, "r"], [3.5, 0.45, 0, "r"], [0, 4, 0, "l"]], "book": "bob", "tex": "arp", "feel": "straight"}, {"id": "r4b", "shelf": "seven-types", "name": "4b · Broken arpeggios", "hands": "RH: Broken arpeggio 1–3–2–3", "level": 2, "rh": "M2 6h8.8v3h-8.8zM2 11h8.8v3h-8.8zM14 16h8.8v3h-8.8zM26 6h8.8v3h-8.8zM26 11h8.8v3h-8.8zM38 16h8.8v3h-8.8zM50 6h8.8v3h-8.8zM50 11h8.8v3h-8.8zM62 16h8.8v3h-8.8zM74 6h8.8v3h-8.8zM74 11h8.8v3h-8.8zM86 16h8.8v3h-8.8z", "lh": "M2 29h94v3h-94z", "notes": [[0.0, 0.45, 0, "r"], [0.0, 0.45, 1, "r"], [0.5, 0.45, 2, "r"], [1.0, 0.45, 0, "r"], [1.0, 0.45, 1, "r"], [1.5, 0.45, 2, "r"], [2.0, 0.45, 0, "r"], [2.0, 0.45, 1, "r"], [2.5, 0.45, 2, "r"], [3.0, 0.45, 0, "r"], [3.0, 0.45, 1, "r"], [3.5, 0.45, 2, "r"], [0, 4, 0, "l"]], "book": "bob", "tex": "arp", "feel": "straight"}, {"id": "r5", "shelf": "seven-types", "name": "5 · Melody doubling", "hands": "LH: Broken chord 1–5–10–5 · RH: Melody (doubling the tune)", "level": 2, "rh": "M2 16h8.8v3h-8.8zM14 6h8.8v3h-8.8zM26 11h8.8v3h-8.8zM38 6h8.8v3h-8.8zM50 16h8.8v3h-8.8zM62 6h8.8v3h-8.8zM74 11h8.8v3h-8.8zM86 6h8.8v3h-8.8z", "lh": "M2 29h94v3h-94z", "notes": [[0.0, 0.45, 2, "r"], [0.5, 0.45, 0, "r"], [1.0, 0.45, 1, "r"], [1.5, 0.45, 0, "r"], [2.0, 0.45, 2, "r"], [2.5, 0.45, 0, "r"], [3.0, 0.45, 1, "r"], [3.5, 0.45, 0, "r"], [0, 4, 0, "l"]], "book": "bob", "tex": "melody", "feel": "straight"}, {"id": "r6", "shelf": "seven-types", "name": "6 · Elements of the melody", "hands": "LH: Arpeggio 1–5–8 (no 3rd) · RH: Melody at phrase starts and ends", "level": 2, "rh": "M2 16h8.8v3h-8.8zM14 6h8.8v3h-8.8zM26 11h8.8v3h-8.8zM38 6h8.8v3h-8.8zM50 16h8.8v3h-8.8zM62 6h8.8v3h-8.8zM74 11h8.8v3h-8.8zM86 6h8.8v3h-8.8z", "lh": "M2 29h94v3h-94z", "notes": [[0.0, 0.45, 2, "r"], [0.5, 0.45, 0, "r"], [1.0, 0.45, 1, "r"], [1.5, 0.45, 0, "r"], [2.0, 0.45, 2, "r"], [2.5, 0.45, 0, "r"], [3.0, 0.45, 1, "r"], [3.5, 0.45, 0, "r"], [0, 4, 0, "l"]], "book": "bob", "tex": "melody", "feel": "straight"}, {"id": "r7", "shelf": "seven-types", "name": "7 · Harmony in the melody", "hands": "LH: 1–5–8–5 in quarters · RH: Melody with chord notes under it", "level": 2, "rh": "M2 6h19.6v3h-19.6zM2 11h19.6v3h-19.6zM2 16h19.6v3h-19.6zM26 6h19.6v3h-19.6zM26 11h19.6v3h-19.6zM26 16h19.6v3h-19.6zM50 6h19.6v3h-19.6zM50 11h19.6v3h-19.6zM50 16h19.6v3h-19.6zM74 6h19.6v3h-19.6zM74 11h19.6v3h-19.6zM74 16h19.6v3h-19.6z", "lh": "M2 29h94v3h-94z", "notes": [[0, 0.9, 0, "r"], [0, 0.9, 1, "r"], [0, 0.9, 2, "r"], [1, 0.9, 0, "r"], [1, 0.9, 1, "r"], [1, 0.9, 2, "r"], [2, 0.9, 0, "r"], [2, 0.9, 1, "r"], [2, 0.9, 2, "r"], [3, 0.9, 0, "r"], [3, 0.9, 1, "r"], [3, 0.9, 2, "r"], [0, 4, 0, "l"]], "book": "bob", "tex": "melody", "feel": "straight"}, {"id": "g1", "shelf": "gorshkov", "name": "1 · Chord pulse", "hands": "LH: Root, whole note · RH: Chord pulse, beats 1 and 4 brighter", "level": 3, "rh": "M14 6h7.6v3h-7.6zM14 11h7.6v3h-7.6zM14 16h7.6v3h-7.6zM38 6h7.6v3h-7.6zM38 11h7.6v3h-7.6zM38 16h7.6v3h-7.6zM62 6h7.6v3h-7.6zM62 11h7.6v3h-7.6zM62 16h7.6v3h-7.6zM86 6h7.6v3h-7.6zM86 11h7.6v3h-7.6zM86 16h7.6v3h-7.6z", "lh": "M2 29h19.6v3h-19.6zM26 29h19.6v3h-19.6zM50 29h19.6v3h-19.6zM74 29h19.6v3h-19.6z", "notes": [[0.5, 0.4, 0, "r"], [0.5, 0.4, 1, "r"], [0.5, 0.4, 2, "r"], [1.5, 0.4, 0, "r"], [1.5, 0.4, 1, "r"], [1.5, 0.4, 2, "r"], [2.5, 0.4, 0, "r"], [2.5, 0.4, 1, "r"], [2.5, 0.4, 2, "r"], [3.5, 0.4, 0, "r"], [3.5, 0.4, 1, "r"], [3.5, 0.4, 2, "r"], [0, 0.9, 0, "l"], [1, 0.9, 0, "l"], [2, 0.9, 0, "l"], [3, 0.9, 0, "l"]], "book": "gor", "tex": "block", "feel": "straight"}, {"id": "g2", "shelf": "gorshkov", "name": "2 · Pulse with the 2nd", "hands": "LH: Root, whole note · RH: Pulse with the 2nd added", "level": 3, "rh": "M14 6h7.6v3h-7.6zM14 11h7.6v3h-7.6zM14 16h7.6v3h-7.6zM38 6h7.6v3h-7.6zM38 11h7.6v3h-7.6zM38 16h7.6v3h-7.6zM62 6h7.6v3h-7.6zM62 11h7.6v3h-7.6zM62 16h7.6v3h-7.6zM86 6h7.6v3h-7.6zM86 11h7.6v3h-7.6zM86 16h7.6v3h-7.6z", "lh": "M2 29h19.6v3h-19.6zM26 29h19.6v3h-19.6zM50 29h19.6v3h-19.6zM74 29h19.6v3h-19.6z", "notes": [[0.5, 0.4, 0, "r"], [0.5, 0.4, 1, "r"], [0.5, 0.4, 2, "r"], [1.5, 0.4, 0, "r"], [1.5, 0.4, 1, "r"], [1.5, 0.4, 2, "r"], [2.5, 0.4, 0, "r"], [2.5, 0.4, 1, "r"], [2.5, 0.4, 2, "r"], [3.5, 0.4, 0, "r"], [3.5, 0.4, 1, "r"], [3.5, 0.4, 2, "r"], [0, 0.9, 0, "l"], [1, 0.9, 0, "l"], [2, 0.9, 0, "l"], [3, 0.9, 0, "l"]], "book": "gor", "tex": "block", "feel": "straight"}, {"id": "g3", "shelf": "gorshkov", "name": "3 · Broken in 8ths", "hands": "LH: Root, whole note", "level": 3, "rh": "M2 6h8.8v3h-8.8zM2 11h8.8v3h-8.8zM14 16h8.8v3h-8.8zM26 6h8.8v3h-8.8zM26 11h8.8v3h-8.8zM38 16h8.8v3h-8.8zM50 6h8.8v3h-8.8zM50 11h8.8v3h-8.8zM62 16h8.8v3h-8.8zM74 6h8.8v3h-8.8zM74 11h8.8v3h-8.8zM86 16h8.8v3h-8.8z", "lh": "M2 29h94v3h-94z", "notes": [[0.0, 0.45, 0, "r"], [0.0, 0.45, 1, "r"], [0.5, 0.45, 2, "r"], [1.0, 0.45, 0, "r"], [1.0, 0.45, 1, "r"], [1.5, 0.45, 2, "r"], [2.0, 0.45, 0, "r"], [2.0, 0.45, 1, "r"], [2.5, 0.45, 2, "r"], [3.0, 0.45, 0, "r"], [3.0, 0.45, 1, "r"], [3.5, 0.45, 2, "r"], [0, 4, 0, "l"]], "book": "gor", "tex": "broken", "feel": "straight"}, {"id": "g4", "shelf": "gorshkov", "name": "4 · Harmonic figuration", "hands": "LH: Root, whole note", "level": 3, "rh": "M2 16h8.8v3h-8.8zM14 6h8.8v3h-8.8zM26 11h8.8v3h-8.8zM38 6h8.8v3h-8.8zM50 16h8.8v3h-8.8zM62 6h8.8v3h-8.8zM74 11h8.8v3h-8.8zM86 6h8.8v3h-8.8z", "lh": "M2 29h94v3h-94z", "notes": [[0.0, 0.45, 2, "r"], [0.5, 0.45, 0, "r"], [1.0, 0.45, 1, "r"], [1.5, 0.45, 0, "r"], [2.0, 0.45, 2, "r"], [2.5, 0.45, 0, "r"], [3.0, 0.45, 1, "r"], [3.5, 0.45, 0, "r"], [0, 4, 0, "l"]], "book": "gor", "tex": "arp", "feel": "straight"}, {"id": "g5", "shelf": "gorshkov", "name": "5 · Pulse, then a run", "hands": "LH: Root, whole note · RH: Pulse on 1–3, a run down on 4", "level": 3, "rh": "M14 6h7.6v3h-7.6zM14 11h7.6v3h-7.6zM14 16h7.6v3h-7.6zM38 6h7.6v3h-7.6zM38 11h7.6v3h-7.6zM38 16h7.6v3h-7.6zM62 6h7.6v3h-7.6zM62 11h7.6v3h-7.6zM62 16h7.6v3h-7.6zM86 6h7.6v3h-7.6zM86 11h7.6v3h-7.6zM86 16h7.6v3h-7.6z", "lh": "M2 29h19.6v3h-19.6zM26 29h19.6v3h-19.6zM50 29h19.6v3h-19.6zM74 29h19.6v3h-19.6z", "notes": [[0.5, 0.4, 0, "r"], [0.5, 0.4, 1, "r"], [0.5, 0.4, 2, "r"], [1.5, 0.4, 0, "r"], [1.5, 0.4, 1, "r"], [1.5, 0.4, 2, "r"], [2.5, 0.4, 0, "r"], [2.5, 0.4, 1, "r"], [2.5, 0.4, 2, "r"], [3.5, 0.4, 0, "r"], [3.5, 0.4, 1, "r"], [3.5, 0.4, 2, "r"], [0, 0.9, 0, "l"], [1, 0.9, 0, "l"], [2, 0.9, 0, "l"], [3, 0.9, 0, "l"]], "book": "gor", "tex": "line", "feel": "straight"}, {"id": "g6", "shelf": "gorshkov", "name": "6 · A line on beats 3 and 4", "hands": "LH: Root, whole note", "level": 3, "rh": "M2 16h19.6v3h-19.6zM26 11h19.6v3h-19.6zM50 6h19.6v3h-19.6zM74 11h19.6v3h-19.6z", "lh": "M2 39h8.8v3h-8.8zM14 34h8.8v3h-8.8zM26 29h8.8v3h-8.8zM38 34h8.8v3h-8.8zM50 39h8.8v3h-8.8zM62 34h8.8v3h-8.8zM74 29h8.8v3h-8.8zM86 34h8.8v3h-8.8z", "notes": [[0, 0.9, 2, "r"], [1, 0.9, 1, "r"], [2, 0.9, 0, "r"], [3, 0.9, 1, "r"], [0.0, 0.45, 2, "l"], [0.5, 0.45, 1, "l"], [1.0, 0.45, 0, "l"], [1.5, 0.45, 1, "l"], [2.0, 0.45, 2, "l"], [2.5, 0.45, 1, "l"], [3.0, 0.45, 0, "l"], [3.5, 0.45, 1, "l"]], "book": "gor", "tex": "line", "feel": "straight"}, {"id": "block", "shelf": "genres", "name": "Whole notes", "hands": "LH: Root, whole note · RH: Whole-note chord", "level": 0, "rh": "M2 6h89.2v3h-89.2zM2 11h89.2v3h-89.2zM2 16h89.2v3h-89.2z", "lh": "M2 39h8.8v3h-8.8zM14 34h8.8v3h-8.8zM26 29h8.8v3h-8.8zM38 34h8.8v3h-8.8zM50 39h8.8v3h-8.8zM62 34h8.8v3h-8.8zM74 29h8.8v3h-8.8zM86 34h8.8v3h-8.8z", "notes": [[0, 3.8, 0, "r"], [0, 3.8, 1, "r"], [0, 3.8, 2, "r"], [0.0, 0.45, 2, "l"], [0.5, 0.45, 1, "l"], [1.0, 0.45, 0, "l"], [1.5, 0.45, 1, "l"], [2.0, 0.45, 2, "l"], [2.5, 0.45, 1, "l"], [3.0, 0.45, 0, "l"], [3.5, 0.45, 1, "l"]], "book": "styles", "tex": "block", "feel": "straight"}, {"id": "flow", "shelf": "genres", "name": "Chord flow (I–IV–I–V–I shapes)", "hands": "LH: Root, whole note · RH: Chord flow: I–IV–I–V–I shapes", "level": 0, "rh": "M2 6h19.6v3h-19.6zM2 11h19.6v3h-19.6zM2 16h19.6v3h-19.6zM26 6h19.6v3h-19.6zM26 11h19.6v3h-19.6zM26 16h19.6v3h-19.6zM50 6h19.6v3h-19.6zM50 11h19.6v3h-19.6zM50 16h19.6v3h-19.6zM74 6h19.6v3h-19.6zM74 11h19.6v3h-19.6zM74 16h19.6v3h-19.6z", "lh": "M2 29h94v3h-94z", "notes": [[0, 0.9, 0, "r"], [0, 0.9, 1, "r"], [0, 0.9, 2, "r"], [1, 0.9, 0, "r"], [1, 0.9, 1, "r"], [1, 0.9, 2, "r"], [2, 0.9, 0, "r"], [2, 0.9, 1, "r"], [2, 0.9, 2, "r"], [3, 0.9, 0, "r"], [3, 0.9, 1, "r"], [3, 0.9, 2, "r"], [0, 4, 0, "l"]], "book": "styles", "tex": "block", "feel": "straight"}, {"id": "pop8", "shelf": "genres", "name": "Pop 8ths", "hands": "LH: Root on beats 1 and 3 · RH: Pulsing chords (8ths)", "level": 0, "rh": "M2 6h7.6v3h-7.6zM2 11h7.6v3h-7.6zM2 16h7.6v3h-7.6zM14 6h7.6v3h-7.6zM14 11h7.6v3h-7.6zM14 16h7.6v3h-7.6zM26 6h7.6v3h-7.6zM26 11h7.6v3h-7.6zM26 16h7.6v3h-7.6zM38 6h7.6v3h-7.6zM38 11h7.6v3h-7.6zM38 16h7.6v3h-7.6zM50 6h7.6v3h-7.6zM50 11h7.6v3h-7.6zM50 16h7.6v3h-7.6zM62 6h7.6v3h-7.6zM62 11h7.6v3h-7.6zM62 16h7.6v3h-7.6zM74 6h7.6v3h-7.6zM74 11h7.6v3h-7.6zM74 16h7.6v3h-7.6zM86 6h7.6v3h-7.6zM86 11h7.6v3h-7.6zM86 16h7.6v3h-7.6z", "lh": "M2 29h43.6v3h-43.6zM50 34h43.6v3h-43.6z", "notes": [[0.0, 0.4, 0, "r"], [0.0, 0.4, 1, "r"], [0.0, 0.4, 2, "r"], [0.5, 0.4, 0, "r"], [0.5, 0.4, 1, "r"], [0.5, 0.4, 2, "r"], [1.0, 0.4, 0, "r"], [1.0, 0.4, 1, "r"], [1.0, 0.4, 2, "r"], [1.5, 0.4, 0, "r"], [1.5, 0.4, 1, "r"], [1.5, 0.4, 2, "r"], [2.0, 0.4, 0, "r"], [2.0, 0.4, 1, "r"], [2.0, 0.4, 2, "r"], [2.5, 0.4, 0, "r"], [2.5, 0.4, 1, "r"], [2.5, 0.4, 2, "r"], [3.0, 0.4, 0, "r"], [3.0, 0.4, 1, "r"], [3.0, 0.4, 2, "r"], [3.5, 0.4, 0, "r"], [3.5, 0.4, 1, "r"], [3.5, 0.4, 2, "r"], [0, 1.9, 0, "l"], [2, 1.9, 1, "l"]], "book": "styles", "tex": "block", "feel": "straight"}, {"id": "popSync", "shelf": "genres", "name": "Pop syncopated", "hands": "LH: Syncopated root · RH: Syncopated chords", "level": 0, "rh": "M2 6h31.6v3h-31.6zM2 11h31.6v3h-31.6zM2 16h31.6v3h-31.6zM38 6h8.8v3h-8.8zM38 11h8.8v3h-8.8zM38 16h8.8v3h-8.8zM50 6h43.6v3h-43.6zM50 11h43.6v3h-43.6zM50 16h43.6v3h-43.6z", "lh": "M2 29h43.6v3h-43.6zM50 39h43.6v3h-43.6z", "notes": [[0, 1.4, 0, "r"], [0, 1.4, 1, "r"], [0, 1.4, 2, "r"], [1.5, 0.45, 0, "r"], [1.5, 0.45, 1, "r"], [1.5, 0.45, 2, "r"], [2, 1.9, 0, "r"], [2, 1.9, 1, "r"], [2, 1.9, 2, "r"], [0, 1.9, 0, "l"], [2, 1.9, 2, "l"]], "book": "styles", "tex": "block", "feel": "straight"}, {"id": "ballad", "shelf": "genres", "name": "Ballad arpeggio", "hands": "LH: Root, then 5th · RH: Ballad arpeggio", "level": 0, "rh": "M2 6h89.2v3h-89.2zM2 11h89.2v3h-89.2zM2 16h89.2v3h-89.2z", "lh": "M2 39h8.8v3h-8.8zM14 34h8.8v3h-8.8zM26 29h8.8v3h-8.8zM38 34h8.8v3h-8.8zM50 39h8.8v3h-8.8zM62 34h8.8v3h-8.8zM74 29h8.8v3h-8.8zM86 34h8.8v3h-8.8z", "notes": [[0, 3.8, 0, "r"], [0, 3.8, 1, "r"], [0, 3.8, 2, "r"], [0.0, 0.45, 2, "l"], [0.5, 0.45, 1, "l"], [1.0, 0.45, 0, "l"], [1.5, 0.45, 1, "l"], [2.0, 0.45, 2, "l"], [2.5, 0.45, 1, "l"], [3.0, 0.45, 0, "l"], [3.5, 0.45, 1, "l"]], "book": "styles", "tex": "arp", "feel": "straight"}, {"id": "rock", "shelf": "genres", "name": "Rock", "hands": "LH: Driving octaves (8ths) · RH: Rock 8ths", "level": 0, "rh": "M2 6h7.6v3h-7.6zM2 11h7.6v3h-7.6zM2 16h7.6v3h-7.6zM14 6h7.6v3h-7.6zM14 11h7.6v3h-7.6zM14 16h7.6v3h-7.6zM26 6h7.6v3h-7.6zM26 11h7.6v3h-7.6zM26 16h7.6v3h-7.6zM38 6h7.6v3h-7.6zM38 11h7.6v3h-7.6zM38 16h7.6v3h-7.6zM50 6h7.6v3h-7.6zM50 11h7.6v3h-7.6zM50 16h7.6v3h-7.6zM62 6h7.6v3h-7.6zM62 11h7.6v3h-7.6zM62 16h7.6v3h-7.6zM74 6h7.6v3h-7.6zM74 11h7.6v3h-7.6zM74 16h7.6v3h-7.6zM86 6h7.6v3h-7.6zM86 11h7.6v3h-7.6zM86 16h7.6v3h-7.6z", "lh": "M2 29h7.6v3h-7.6zM14 29h7.6v3h-7.6zM26 29h7.6v3h-7.6zM38 29h7.6v3h-7.6zM50 29h7.6v3h-7.6zM62 29h7.6v3h-7.6zM74 29h7.6v3h-7.6zM86 29h7.6v3h-7.6z", "notes": [[0.0, 0.4, 0, "r"], [0.0, 0.4, 1, "r"], [0.0, 0.4, 2, "r"], [0.5, 0.4, 0, "r"], [0.5, 0.4, 1, "r"], [0.5, 0.4, 2, "r"], [1.0, 0.4, 0, "r"], [1.0, 0.4, 1, "r"], [1.0, 0.4, 2, "r"], [1.5, 0.4, 0, "r"], [1.5, 0.4, 1, "r"], [1.5, 0.4, 2, "r"], [2.0, 0.4, 0, "r"], [2.0, 0.4, 1, "r"], [2.0, 0.4, 2, "r"], [2.5, 0.4, 0, "r"], [2.5, 0.4, 1, "r"], [2.5, 0.4, 2, "r"], [3.0, 0.4, 0, "r"], [3.0, 0.4, 1, "r"], [3.0, 0.4, 2, "r"], [3.5, 0.4, 0, "r"], [3.5, 0.4, 1, "r"], [3.5, 0.4, 2, "r"], [0.0, 0.4, 0, "l"], [0.5, 0.4, 0, "l"], [1.0, 0.4, 0, "l"], [1.5, 0.4, 0, "l"], [2.0, 0.4, 0, "l"], [2.5, 0.4, 0, "l"], [3.0, 0.4, 0, "l"], [3.5, 0.4, 0, "l"]], "book": "styles", "tex": "block", "feel": "straight"}, {"id": "blues", "shelf": "genres", "name": "Blues shuffle", "hands": "LH: Shuffle 1–5–6–5 · RH: Blues shuffle stabs", "level": 0, "rh": "M2 6h5.2v3h-5.2zM2 11h5.2v3h-5.2zM2 16h5.2v3h-5.2zM18.1 6h5.2v3h-5.2zM18.1 11h5.2v3h-5.2zM18.1 16h5.2v3h-5.2zM26 6h5.2v3h-5.2zM26 11h5.2v3h-5.2zM26 16h5.2v3h-5.2zM42.1 6h5.2v3h-5.2zM42.1 11h5.2v3h-5.2zM42.1 16h5.2v3h-5.2zM50 6h5.2v3h-5.2zM50 11h5.2v3h-5.2zM50 16h5.2v3h-5.2zM66.1 6h5.2v3h-5.2zM66.1 11h5.2v3h-5.2zM66.1 16h5.2v3h-5.2zM74 6h5.2v3h-5.2zM74 11h5.2v3h-5.2zM74 16h5.2v3h-5.2zM90.1 6h5.2v3h-5.2zM90.1 11h5.2v3h-5.2zM90.1 16h5.2v3h-5.2z", "lh": "M2 29h19.6v3h-19.6zM26 34h19.6v3h-19.6zM50 29h19.6v3h-19.6zM74 34h19.6v3h-19.6z", "notes": [[0, 0.3, 0, "r"], [0, 0.3, 1, "r"], [0, 0.3, 2, "r"], [0.67, 0.3, 0, "r"], [0.67, 0.3, 1, "r"], [0.67, 0.3, 2, "r"], [1, 0.3, 0, "r"], [1, 0.3, 1, "r"], [1, 0.3, 2, "r"], [1.67, 0.3, 0, "r"], [1.67, 0.3, 1, "r"], [1.67, 0.3, 2, "r"], [2, 0.3, 0, "r"], [2, 0.3, 1, "r"], [2, 0.3, 2, "r"], [2.67, 0.3, 0, "r"], [2.67, 0.3, 1, "r"], [2.67, 0.3, 2, "r"], [3, 0.3, 0, "r"], [3, 0.3, 1, "r"], [3, 0.3, 2, "r"], [3.67, 0.3, 0, "r"], [3.67, 0.3, 1, "r"], [3.67, 0.3, 2, "r"], [0, 0.9, 0, "l"], [1, 0.9, 1, "l"], [2, 0.9, 0, "l"], [3, 0.9, 1, "l"]], "book": "styles", "tex": "block", "feel": "swing"}, {"id": "rnb", "shelf": "genres", "name": "R&B", "hands": "LH: R&B bass · RH: R&B chords", "level": 0, "rh": "M2 6h31.6v3h-31.6zM2 11h31.6v3h-31.6zM2 16h31.6v3h-31.6zM38 6h8.8v3h-8.8zM38 11h8.8v3h-8.8zM38 16h8.8v3h-8.8zM50 6h43.6v3h-43.6zM50 11h43.6v3h-43.6zM50 16h43.6v3h-43.6z", "lh": "M2 29h43.6v3h-43.6zM50 39h43.6v3h-43.6z", "notes": [[0, 1.4, 0, "r"], [0, 1.4, 1, "r"], [0, 1.4, 2, "r"], [1.5, 0.45, 0, "r"], [1.5, 0.45, 1, "r"], [1.5, 0.45, 2, "r"], [2, 1.9, 0, "r"], [2, 1.9, 1, "r"], [2, 1.9, 2, "r"], [0, 1.9, 0, "l"], [2, 1.9, 2, "l"]], "book": "styles", "tex": "block", "feel": "straight"}, {"id": "jazz", "shelf": "genres", "name": "Jazz Charleston", "hands": "LH: Root, then 5th · RH: Charleston", "level": 0, "rh": "M2 6h19.6v3h-19.6zM2 11h19.6v3h-19.6zM2 16h19.6v3h-19.6zM38 6h8.8v3h-8.8zM38 11h8.8v3h-8.8zM38 16h8.8v3h-8.8z", "lh": "M2 29h19.6v3h-19.6zM26 34h19.6v3h-19.6zM50 39h19.6v3h-19.6zM74 34h19.6v3h-19.6z", "notes": [[0, 0.9, 0, "r"], [0, 0.9, 1, "r"], [0, 0.9, 2, "r"], [1.5, 0.45, 0, "r"], [1.5, 0.45, 1, "r"], [1.5, 0.45, 2, "r"], [0, 0.9, 0, "l"], [1, 0.9, 1, "l"], [2, 0.9, 2, "l"], [3, 0.9, 1, "l"]], "book": "styles", "tex": "block", "feel": "swing"}, {"id": "hiphop", "shelf": "genres", "name": "Hip-hop", "hands": "LH: Root, whole note · RH: Hip-hop chords", "level": 0, "rh": "M2 6h19.6v3h-19.6zM2 11h19.6v3h-19.6zM2 16h19.6v3h-19.6zM38 6h8.8v3h-8.8zM38 11h8.8v3h-8.8zM38 16h8.8v3h-8.8z", "lh": "M2 29h19.6v3h-19.6zM26 34h19.6v3h-19.6zM50 39h19.6v3h-19.6zM74 34h19.6v3h-19.6z", "notes": [[0, 0.9, 0, "r"], [0, 0.9, 1, "r"], [0, 0.9, 2, "r"], [1.5, 0.45, 0, "r"], [1.5, 0.45, 1, "r"], [1.5, 0.45, 2, "r"], [0, 0.9, 0, "l"], [1, 0.9, 1, "l"], [2, 0.9, 2, "l"], [3, 0.9, 1, "l"]], "book": "styles", "tex": "block", "feel": "straight"}, {"id": "salsa", "shelf": "genres", "name": "Salsa montuno", "hands": "LH: Salsa tumbao · RH: Salsa montuno", "level": 0, "rh": "M2 6h7.6v3h-7.6zM2 11h7.6v3h-7.6zM2 16h7.6v3h-7.6zM14 6h7.6v3h-7.6zM14 11h7.6v3h-7.6zM14 16h7.6v3h-7.6zM26 6h7.6v3h-7.6zM26 11h7.6v3h-7.6zM26 16h7.6v3h-7.6zM38 6h7.6v3h-7.6zM38 11h7.6v3h-7.6zM38 16h7.6v3h-7.6zM50 6h7.6v3h-7.6zM50 11h7.6v3h-7.6zM50 16h7.6v3h-7.6zM62 6h7.6v3h-7.6zM62 11h7.6v3h-7.6zM62 16h7.6v3h-7.6zM74 6h7.6v3h-7.6zM74 11h7.6v3h-7.6zM74 16h7.6v3h-7.6zM86 6h7.6v3h-7.6zM86 11h7.6v3h-7.6zM86 16h7.6v3h-7.6z", "lh": "M2 29h43.6v3h-43.6zM50 34h43.6v3h-43.6z", "notes": [[0.0, 0.4, 0, "r"], [0.0, 0.4, 1, "r"], [0.0, 0.4, 2, "r"], [0.5, 0.4, 0, "r"], [0.5, 0.4, 1, "r"], [0.5, 0.4, 2, "r"], [1.0, 0.4, 0, "r"], [1.0, 0.4, 1, "r"], [1.0, 0.4, 2, "r"], [1.5, 0.4, 0, "r"], [1.5, 0.4, 1, "r"], [1.5, 0.4, 2, "r"], [2.0, 0.4, 0, "r"], [2.0, 0.4, 1, "r"], [2.0, 0.4, 2, "r"], [2.5, 0.4, 0, "r"], [2.5, 0.4, 1, "r"], [2.5, 0.4, 2, "r"], [3.0, 0.4, 0, "r"], [3.0, 0.4, 1, "r"], [3.0, 0.4, 2, "r"], [3.5, 0.4, 0, "r"], [3.5, 0.4, 1, "r"], [3.5, 0.4, 2, "r"], [0, 1.9, 0, "l"], [2, 1.9, 1, "l"]], "book": "styles", "tex": "block", "feel": "straight"}, {"id": "funk", "shelf": "genres", "name": "Funk", "hands": "LH: Funk bass · RH: Funk stabs", "level": 0, "rh": "M2 6h19.6v3h-19.6zM2 11h19.6v3h-19.6zM2 16h19.6v3h-19.6zM38 6h8.8v3h-8.8zM38 11h8.8v3h-8.8zM38 16h8.8v3h-8.8z", "lh": "M2 29h19.6v3h-19.6zM26 34h19.6v3h-19.6zM50 39h19.6v3h-19.6zM74 34h19.6v3h-19.6z", "notes": [[0, 0.9, 0, "r"], [0, 0.9, 1, "r"], [0, 0.9, 2, "r"], [1.5, 0.45, 0, "r"], [1.5, 0.45, 1, "r"], [1.5, 0.45, 2, "r"], [0, 0.9, 0, "l"], [1, 0.9, 1, "l"], [2, 0.9, 2, "l"], [3, 0.9, 1, "l"]], "book": "styles", "tex": "block", "feel": "straight"}, {"id": "gospel", "shelf": "genres", "name": "Gospel", "hands": "LH: Gospel octaves · RH: Syncopated chords", "level": 0, "rh": "M2 6h31.6v3h-31.6zM2 11h31.6v3h-31.6zM2 16h31.6v3h-31.6zM38 6h8.8v3h-8.8zM38 11h8.8v3h-8.8zM38 16h8.8v3h-8.8zM50 6h43.6v3h-43.6zM50 11h43.6v3h-43.6zM50 16h43.6v3h-43.6z", "lh": "M2 29h43.6v3h-43.6zM50 39h43.6v3h-43.6z", "notes": [[0, 1.4, 0, "r"], [0, 1.4, 1, "r"], [0, 1.4, 2, "r"], [1.5, 0.45, 0, "r"], [1.5, 0.45, 1, "r"], [1.5, 0.45, 2, "r"], [2, 1.9, 0, "r"], [2, 1.9, 1, "r"], [2, 1.9, 2, "r"], [0, 1.9, 0, "l"], [2, 1.9, 2, "l"]], "book": "styles", "tex": "block", "feel": "straight"}, {"id": "country", "shelf": "genres", "name": "Country", "hands": "LH: Root, then 5th · RH: Country off-beats", "level": 0, "rh": "M26 6h19.6v3h-19.6zM26 11h19.6v3h-19.6zM26 16h19.6v3h-19.6zM74 6h19.6v3h-19.6zM74 11h19.6v3h-19.6zM74 16h19.6v3h-19.6z", "lh": "M2 39h19.6v3h-19.6zM50 29h19.6v3h-19.6z", "notes": [[1, 0.9, 0, "r"], [1, 0.9, 1, "r"], [1, 0.9, 2, "r"], [3, 0.9, 0, "r"], [3, 0.9, 1, "r"], [3, 0.9, 2, "r"], [0, 0.9, 2, "l"], [2, 0.9, 0, "l"]], "book": "styles", "tex": "block", "feel": "straight"}, {"id": "own-1", "shelf": "own", "name": "My ballad", "hands": "LH: Root, whole note · RH: Chord on every beat", "level": 0, "rh": "M2 6h19.6v3h-19.6zM2 11h19.6v3h-19.6zM2 16h19.6v3h-19.6zM26 6h19.6v3h-19.6zM26 11h19.6v3h-19.6zM26 16h19.6v3h-19.6zM50 6h19.6v3h-19.6zM50 11h19.6v3h-19.6zM50 16h19.6v3h-19.6zM74 6h19.6v3h-19.6zM74 11h19.6v3h-19.6zM74 16h19.6v3h-19.6z", "lh": "M2 29h94v3h-94z", "notes": [[0, 0.9, 0, "r"], [0, 0.9, 1, "r"], [0, 0.9, 2, "r"], [1, 0.9, 0, "r"], [1, 0.9, 1, "r"], [1, 0.9, 2, "r"], [2, 0.9, 0, "r"], [2, 0.9, 1, "r"], [2, 0.9, 2, "r"], [3, 0.9, 0, "r"], [3, 0.9, 1, "r"], [3, 0.9, 2, "r"], [0, 4, 0, "l"]], "book": "mine", "tex": "block", "feel": "straight", "folder": "Worship"}];
 const PANEL_VALS = {
+songActsOn: s.songActs ? 'true' : 'false', songActsShow: !!s.songActs, toggleSongActs: () => this.setState({ songActs: !s.songActs }),
 isDone: open === 'done', doneClose: pick({ open: 'none' }), doneMode: mode === 'wait' ? 'Wait' : 'Play',
 doneScore: mode === 'wait' ? '94%' : '88%', doneScoreLabel: mode === 'wait' ? 'notes right first time' : 'notes in time', doneScoreDelta: mode === 'wait' ? '↑ 6' : '↑ 3',
 doneTempo: String(Math.round(80 * speed / 100)), doneTempoMark: ((b) => b < 60 ? 'Largo' : b < 66 ? 'Larghetto' : b < 76 ? 'Adagio' : b < 108 ? 'Andante' : b < 120 ? 'Moderato' : 'Allegro')(Math.round(80 * speed / 100)),

diff --git a/.scratch/r37/plan/pace-and-settings.md b/.scratch/r37/plan/pace-and-settings.md
@@ -141,13 +141,20 @@ Piano end a song on a result screen too; ours leads to practice, not a grade. Dr
 settings"): the Player's `SongInfo` sheet goes, and the gear has no link to the song's page (it is reached from Songs).
 The song's page still gains Tuning.
 
-**The song's settings stand apart from its acts** (owner, 2026-11-07: "the first two three settings should be more
-distinctive than the other ones"): Arrangement · Accompaniment (radio cards) and **Transpose** (a card, its label
-bold) are white cards with shadows. The acts follow under the caption **More** as a quiet list: rows with a leading
-icon and ›, on the drawer's sand, parted by hairlines, no card and no shadow: **Sections · Edit score · Print · Share
-link · Export**. (v150's single row of icon buttons was rejected, 2026-11-07: "i like the icons, but now it feels like a
-bottom bar and not like settings drawer".) Canvas v151; drawings `song-settings-acts.png`,
-`song-settings-acts-laptop.png`.
+**The song's drawer: the song at its head, settings only below** (owner, 2026-11-07/08: "the first two three settings
+should be more distinctive than the other ones"; v150's row of icon buttons "feels like a bottom bar and not like
+settings drawer"; v151's icon list "still not good. research more and look also at the example apps and websites").
+- Research: Chordify keeps a song's choices on the song (Transpose · Capo · Simplify tabs) and its acts in a separate
+  ⋮ action list (Add to setlist, Share chords, Export to PDF, Export to MIDI; `piano-data/reference-apps/chordify`);
+  Flat's Playback options is a titled sheet of settings rows only (`flat-score-editor/05`); forScore keeps a Tools menu
+  apart from the score's settings and Share there prints or sends (forscore.co/documentation/tools); Soundslice's
+  Settings panel holds transposition, count-in, zoom and nothing to act on (soundslice.com/help, Transposing); Apple's
+  HIG groups settings in lists under headers and puts an object's acts in a menu.
+- Will build: the drawer's head is the song, as a sheet in Chordify or Apple Music: a cover tile, **Amazing Grace**,
+  "G major · 3/4 · 80 BPM" (the key follows Transpose), and at its right two round buttons, **Share link** and **More**
+  (···), whose menu holds **Edit score · Print · Export**. Below, settings only, under headers: **What you play**, the
+  Arrangement · Accompaniment cards; **Song**, Transpose and Sections ›. No acts among the settings. Canvas v152;
+  drawings `song-settings-acts.png`, `song-settings-more-menu.png`, `song-settings-acts-laptop.png`.
 
 **Placed (owner, 2026-11-07, on the five proposals):**
 - **Practice, not Pace** ("i don't like that it is called pace"): the transport's menu is titled Practice, the

diff --git a/.claude/skills/owner-way/references/feedback-log.md b/.claude/skills/owner-way/references/feedback-log.md
@@ -79,9 +79,10 @@ owner's, typos fixed.
   through, the score with its comparison, each bar's slips, Practise bars n–m, Play again, the next step. Drawn (v149).
   At the end of the song only, not after a loop ("song only").
 - **No Song information and no Song page row in the Player** ("no song information", "no song page in the settings").
-- **The first settings stand out** ("the first two three settings should be more distinctive"): the song's settings
-  are cards; its acts a quiet list under More, rows with a leading icon. Never a row of icon buttons in a drawer: "it
-  feels like a bottom bar and not like settings drawer".
+- **A settings drawer holds settings; its acts sit in its head** ("the first two three settings should be more
+  distinctive", "feels like a bottom bar and not like settings drawer", "still not good. research more"): the song at
+  the drawer's head with Share link and ··· (Edit score · Print · Export), as Chordify's ⋮; settings under headers below.
+  Never a row of icon buttons in a drawer, never acts listed among settings.
 - **Settings a learner understands, ordered by what matters to them;** the sheet's View settings usable; nothing reserves
   a band above the keyboard, nor a tip; proper pedals, not a lever at the keys' corner (piano sites as the reference);
   the Player smooth with many notes (the Fantaisie hung). Build the approved mockup whole, "not only half" (2026-11-05).
